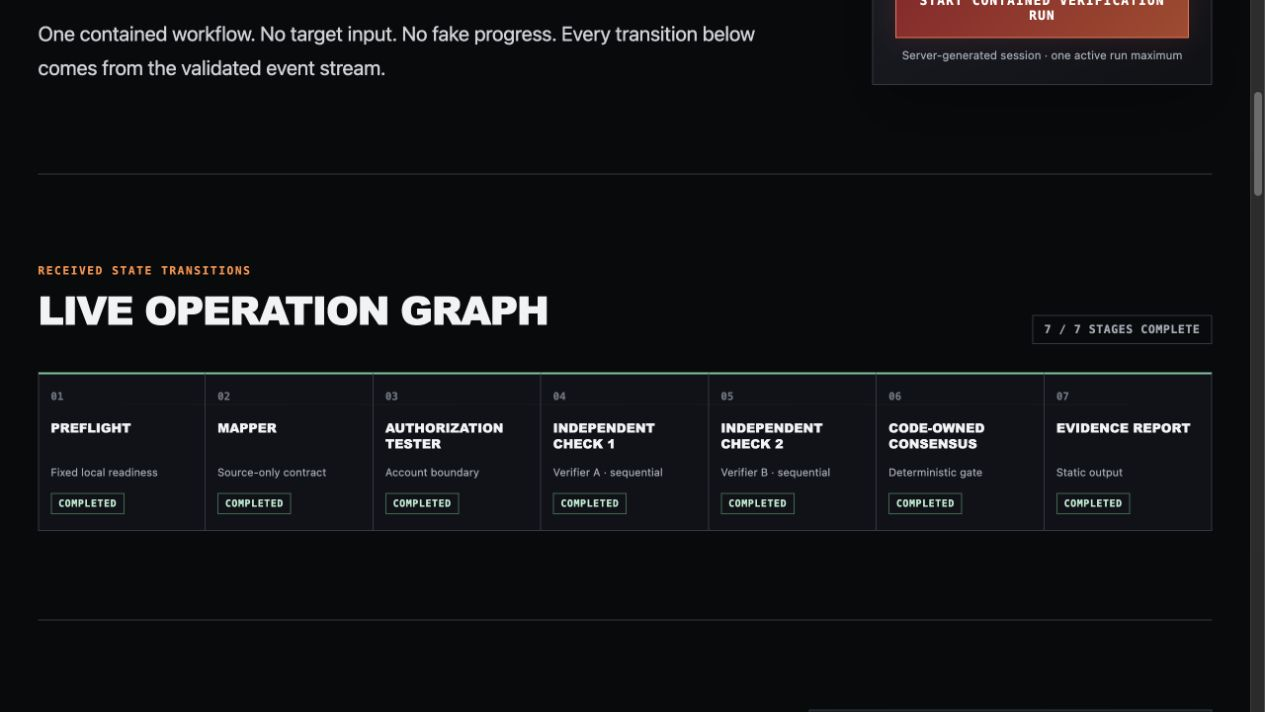
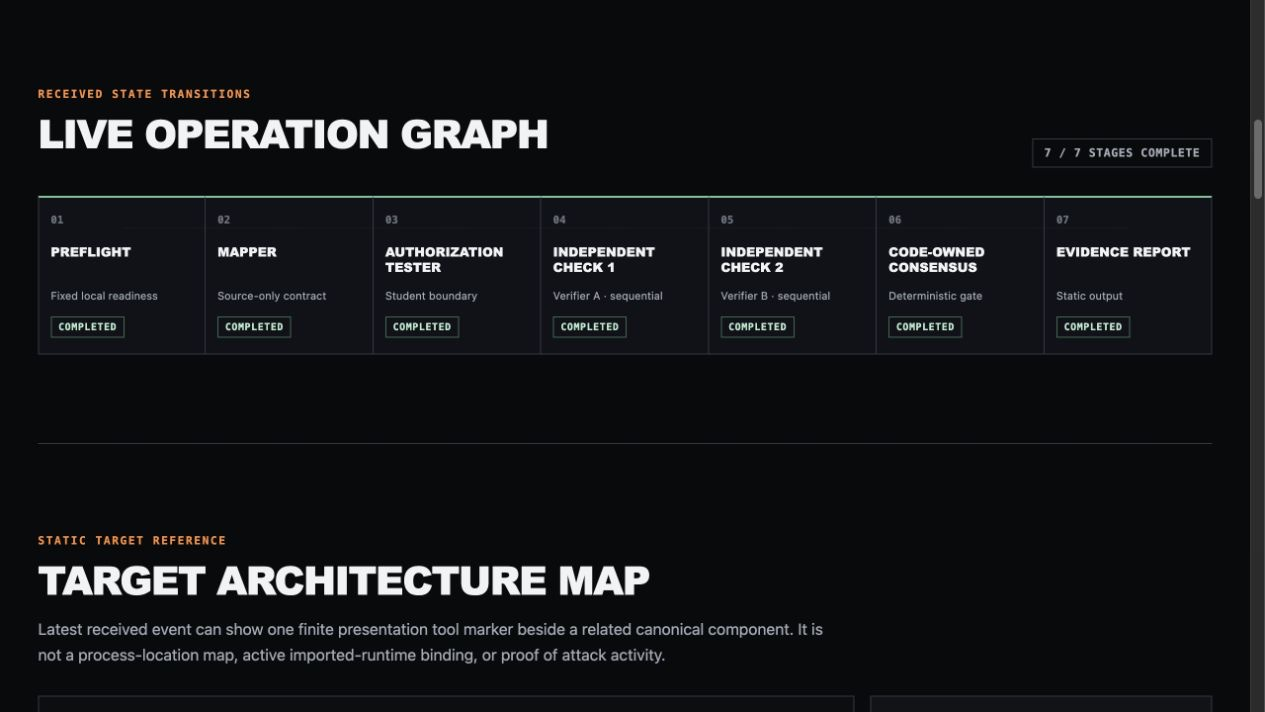
docs(portfolio): refresh final showcase

diff --git a/AGENTS.md b/AGENTS.md
@@ -127,6 +127,10 @@ Added restrained, frontend-only finite tool markers to the Sprint 19 static arch
 
 Added a separate host-local runtime-console mode for exactly the active Sprint 16 school-portal snapshot and an already-running Sprint 17 managed runtime. The default coordinator demo, workflow demo, root Compose topology, and scope-controller source/reset ownership remain unchanged. The runtime entry point injects only ordinary source-reader, fixed-loopback endpoint-caller, and resetter callables into the existing mapper, identity, and verifier APIs. A captured active descriptor plus exact managed image/container/network labels, immutable image ID, containment, and loopback health are revalidated around each operation; source reads remain the mapper's three fixed non-following snapshot paths. Reset re-inspects immediately before the fixed image-owned seed command, health-checks after it, derives the canonical 16-character logical-state hash through one fixed shell-free in-container program, and returns no rows, tokens, paths, or Docker output. Preflight attests runtime and source-derived architecture before provider client creation. Only exact all-or-nothing safe binding metadata may enter the existing presentation stream, and the frontend renders it only for a completed coordinator preflight; preview remains synthetic and unbound. Offline verification passes 263 Python tests with one existing dependency warning, 39 frontend tests, TypeScript checking, production build, Compose configuration, and diff validation; the authoritative ledger hash and row counts remain unchanged. No Docker/provider/live Crack run, target/registry mutation, scope expansion, or credential access occurs. The trusted local image labels remain operator assertions, and live compatibility remains separately authorized.
 
+### Sprint 22
+
+Refreshed the public portfolio presentation without changing product or security behavior. The README now shows current provider-free operations-console replay, seven-stage evidence-flow, event-related architecture-map, and locally served synthetic school-portal captures; it labels replay fixtures, historical pre-migration evidence, presentation-only markers, and the no-provider/no-ledger screenshot boundary explicitly. Browser acceptance used only the committed replay fixture and a temporary seeded school-portal database on loopback; both local services were stopped and the temporary database removed afterwards. The four portfolio images are fixed 1265×712 local JPEGs with no external assets. Offline verification passes 263 Python tests with one existing dependency warning, 39 frontend tests, TypeScript checking, production build, Compose configuration, diff validation, tracked-artifact review, and a redacted credential-pattern audit; the authoritative ledger hash and row counts remain unchanged. No Docker, provider-backed workflow, managed-runtime action, target/registry mutation, or ledger write occurred.
+
 ## Known follow-ups
 
 - Repo-wide pytest collection uses importlib mode plus explicit repository-local package roots in `pytest.ini`, so same-named agent test modules remain isolated and `app-under-test` imports resolve without changing production package behavior.

diff --git a/README.md b/README.md
@@ -10,7 +10,7 @@ The answer is a local-only pipeline where models propose bounded plans, ordinary
 
 ![Crack live operations console replaying a completed contained verification run](docs/assets/crack-operations-console.jpg)
 
-_Real replay of an accepted synthetic run. Screenshot capture made no provider calls and did not modify the ledger._
+_Provider-free replay of committed, accepted synthetic fixture events. Screenshot capture made no provider calls and did not modify the ledger._
 
 ## What this project demonstrates
 
@@ -25,6 +25,8 @@ _Real replay of an accepted synthetic run. Screenshot capture made no provider c
 ## Sprint 14 migration status
 
 The disposable target is now a deterministic school portal with Teacher, Student A, and Student B fixtures. Sprint 14 is validated offline only: no provider-backed or live workflow run is claimed. Historical ledger evidence remains preserved as evidence of its earlier fixture domain and is not a claim about the current portal state.
+
+![Synthetic Northstar school portal teacher grading queue](docs/assets/crack-school-portal.jpg)
 
 ![Seven completed stages in the replayable operations graph](docs/assets/crack-evidence-flow.jpg)
 
@@ -48,6 +50,10 @@ flowchart LR
 ```
 
 Logical roles run as sequential Python operations, not autonomous parallel services. All application access passes through the fixed scope controller.
+
+![Event-related target architecture map for the synthetic school portal](docs/assets/crack-architecture-map.jpg)
+
+The map highlights the canonical component related to the latest validated presentation event. Its finite tool markers are explanatory UI only: they do not claim a physical agent location, parallel execution, or a security verdict.
 
 ## Evidence report
 
